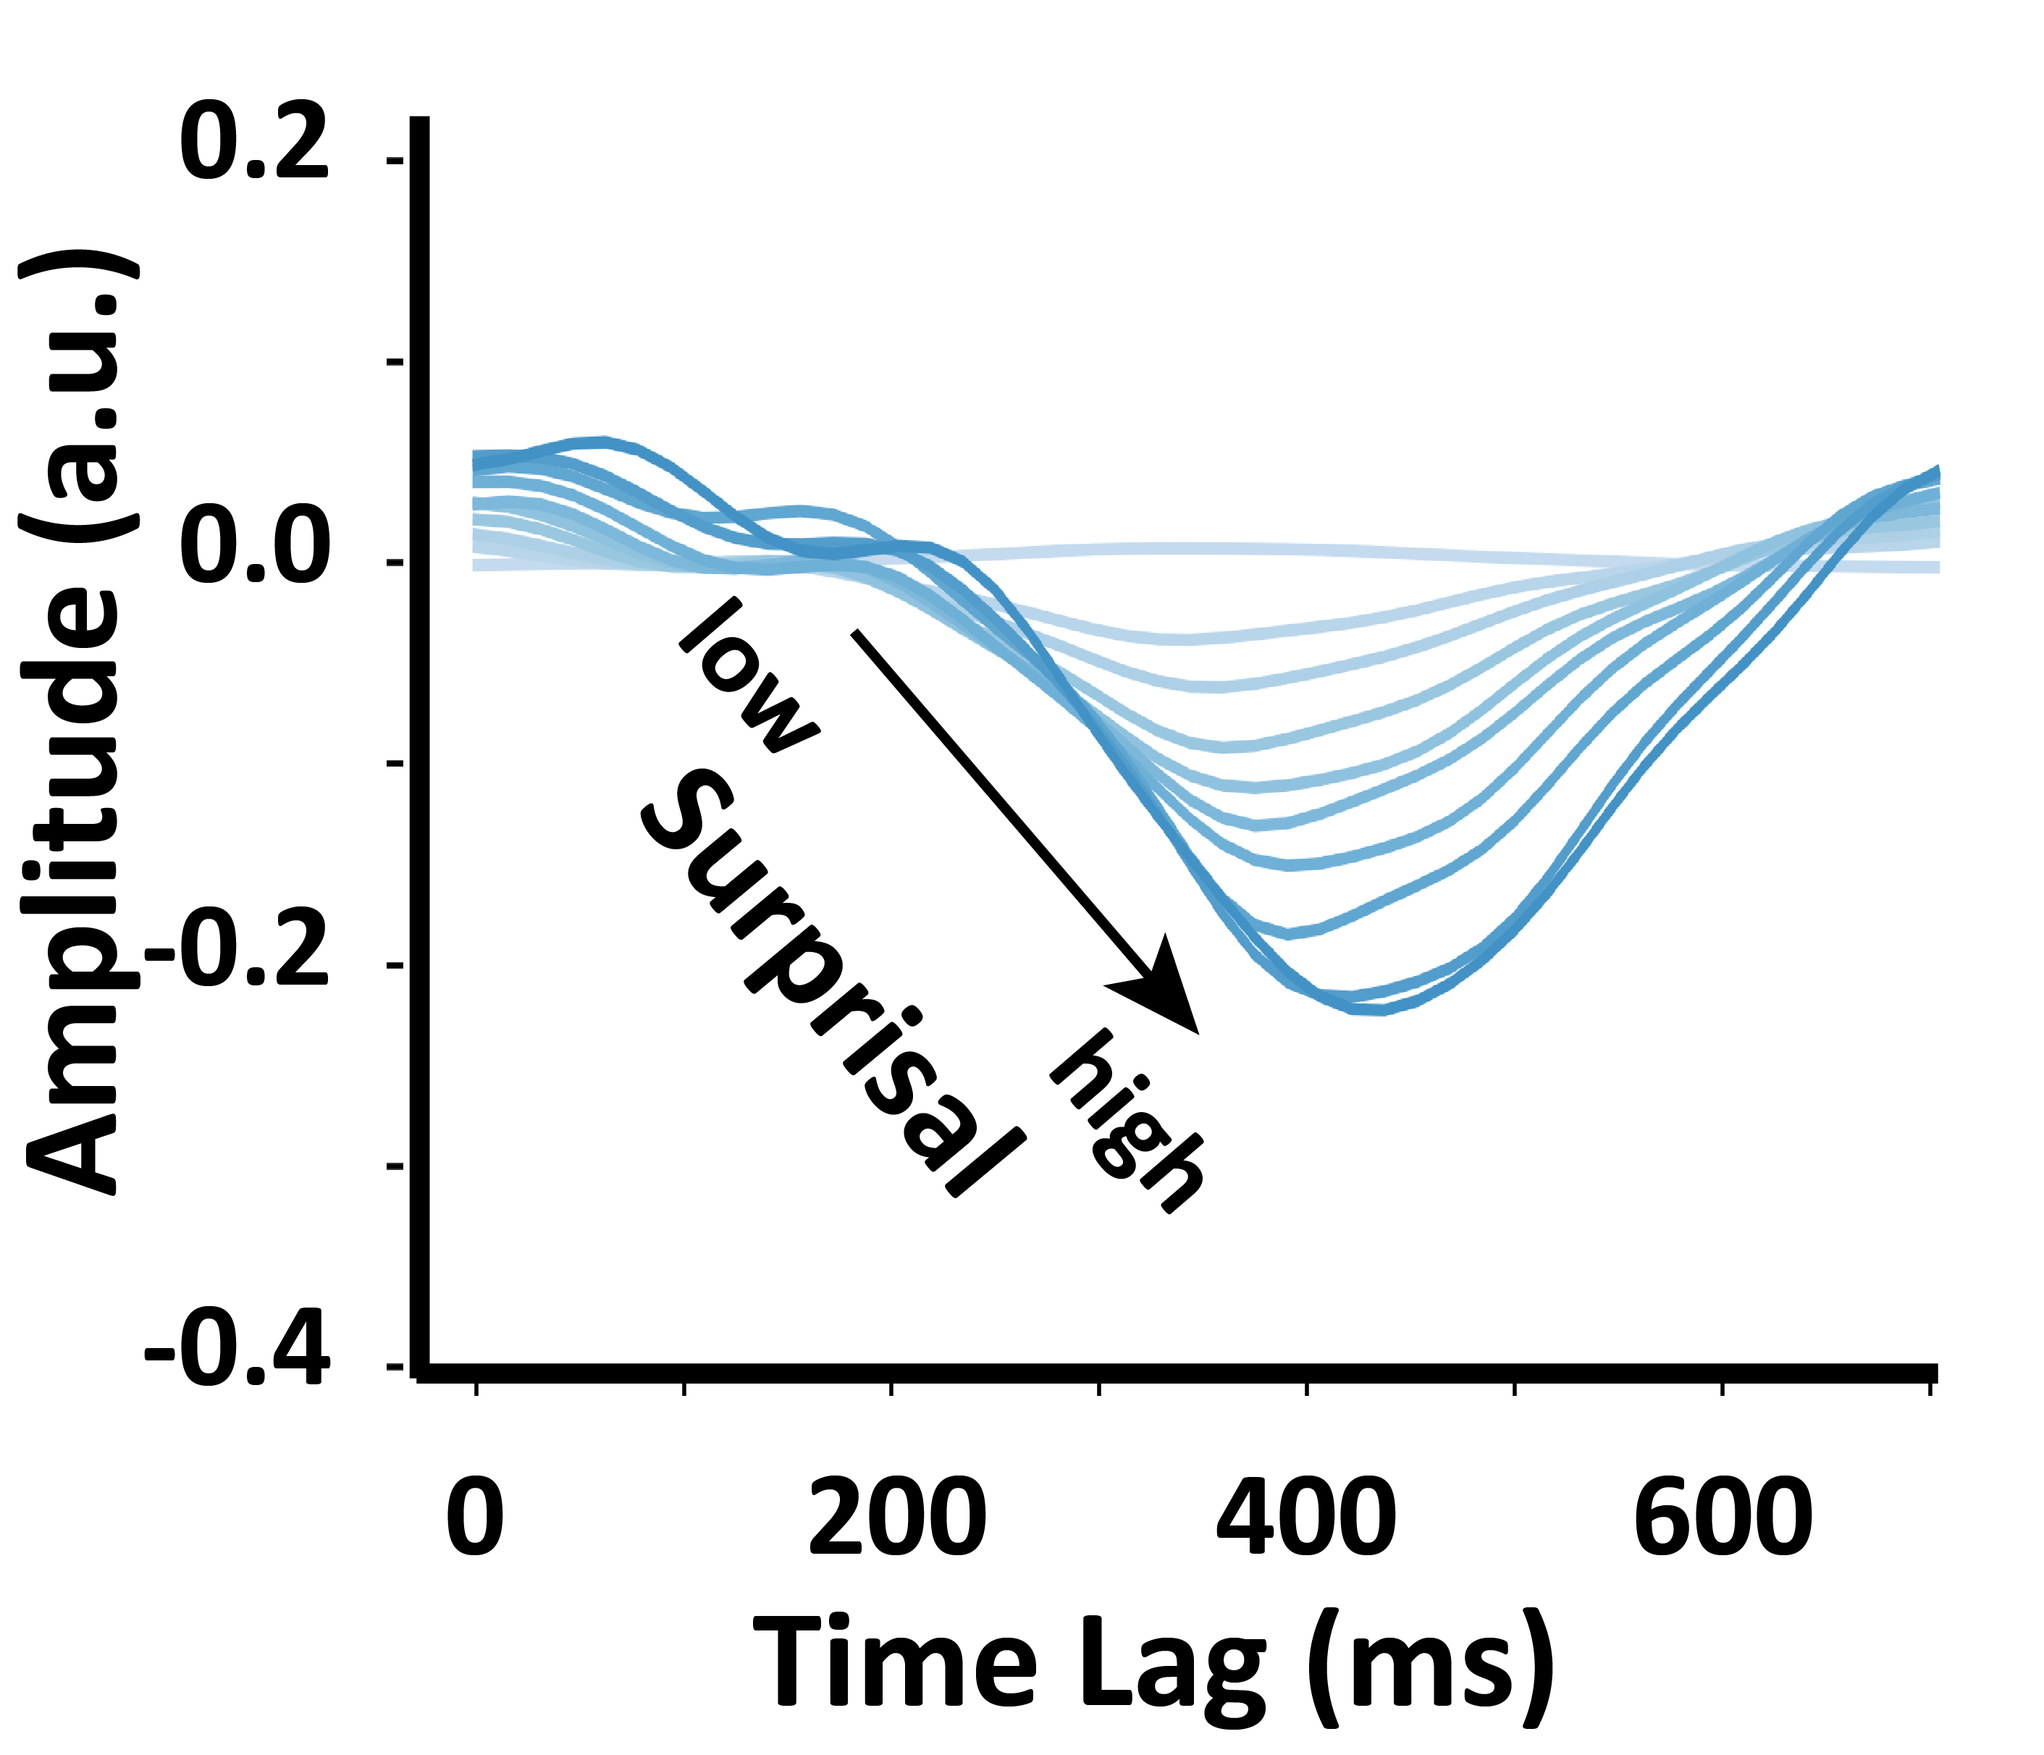
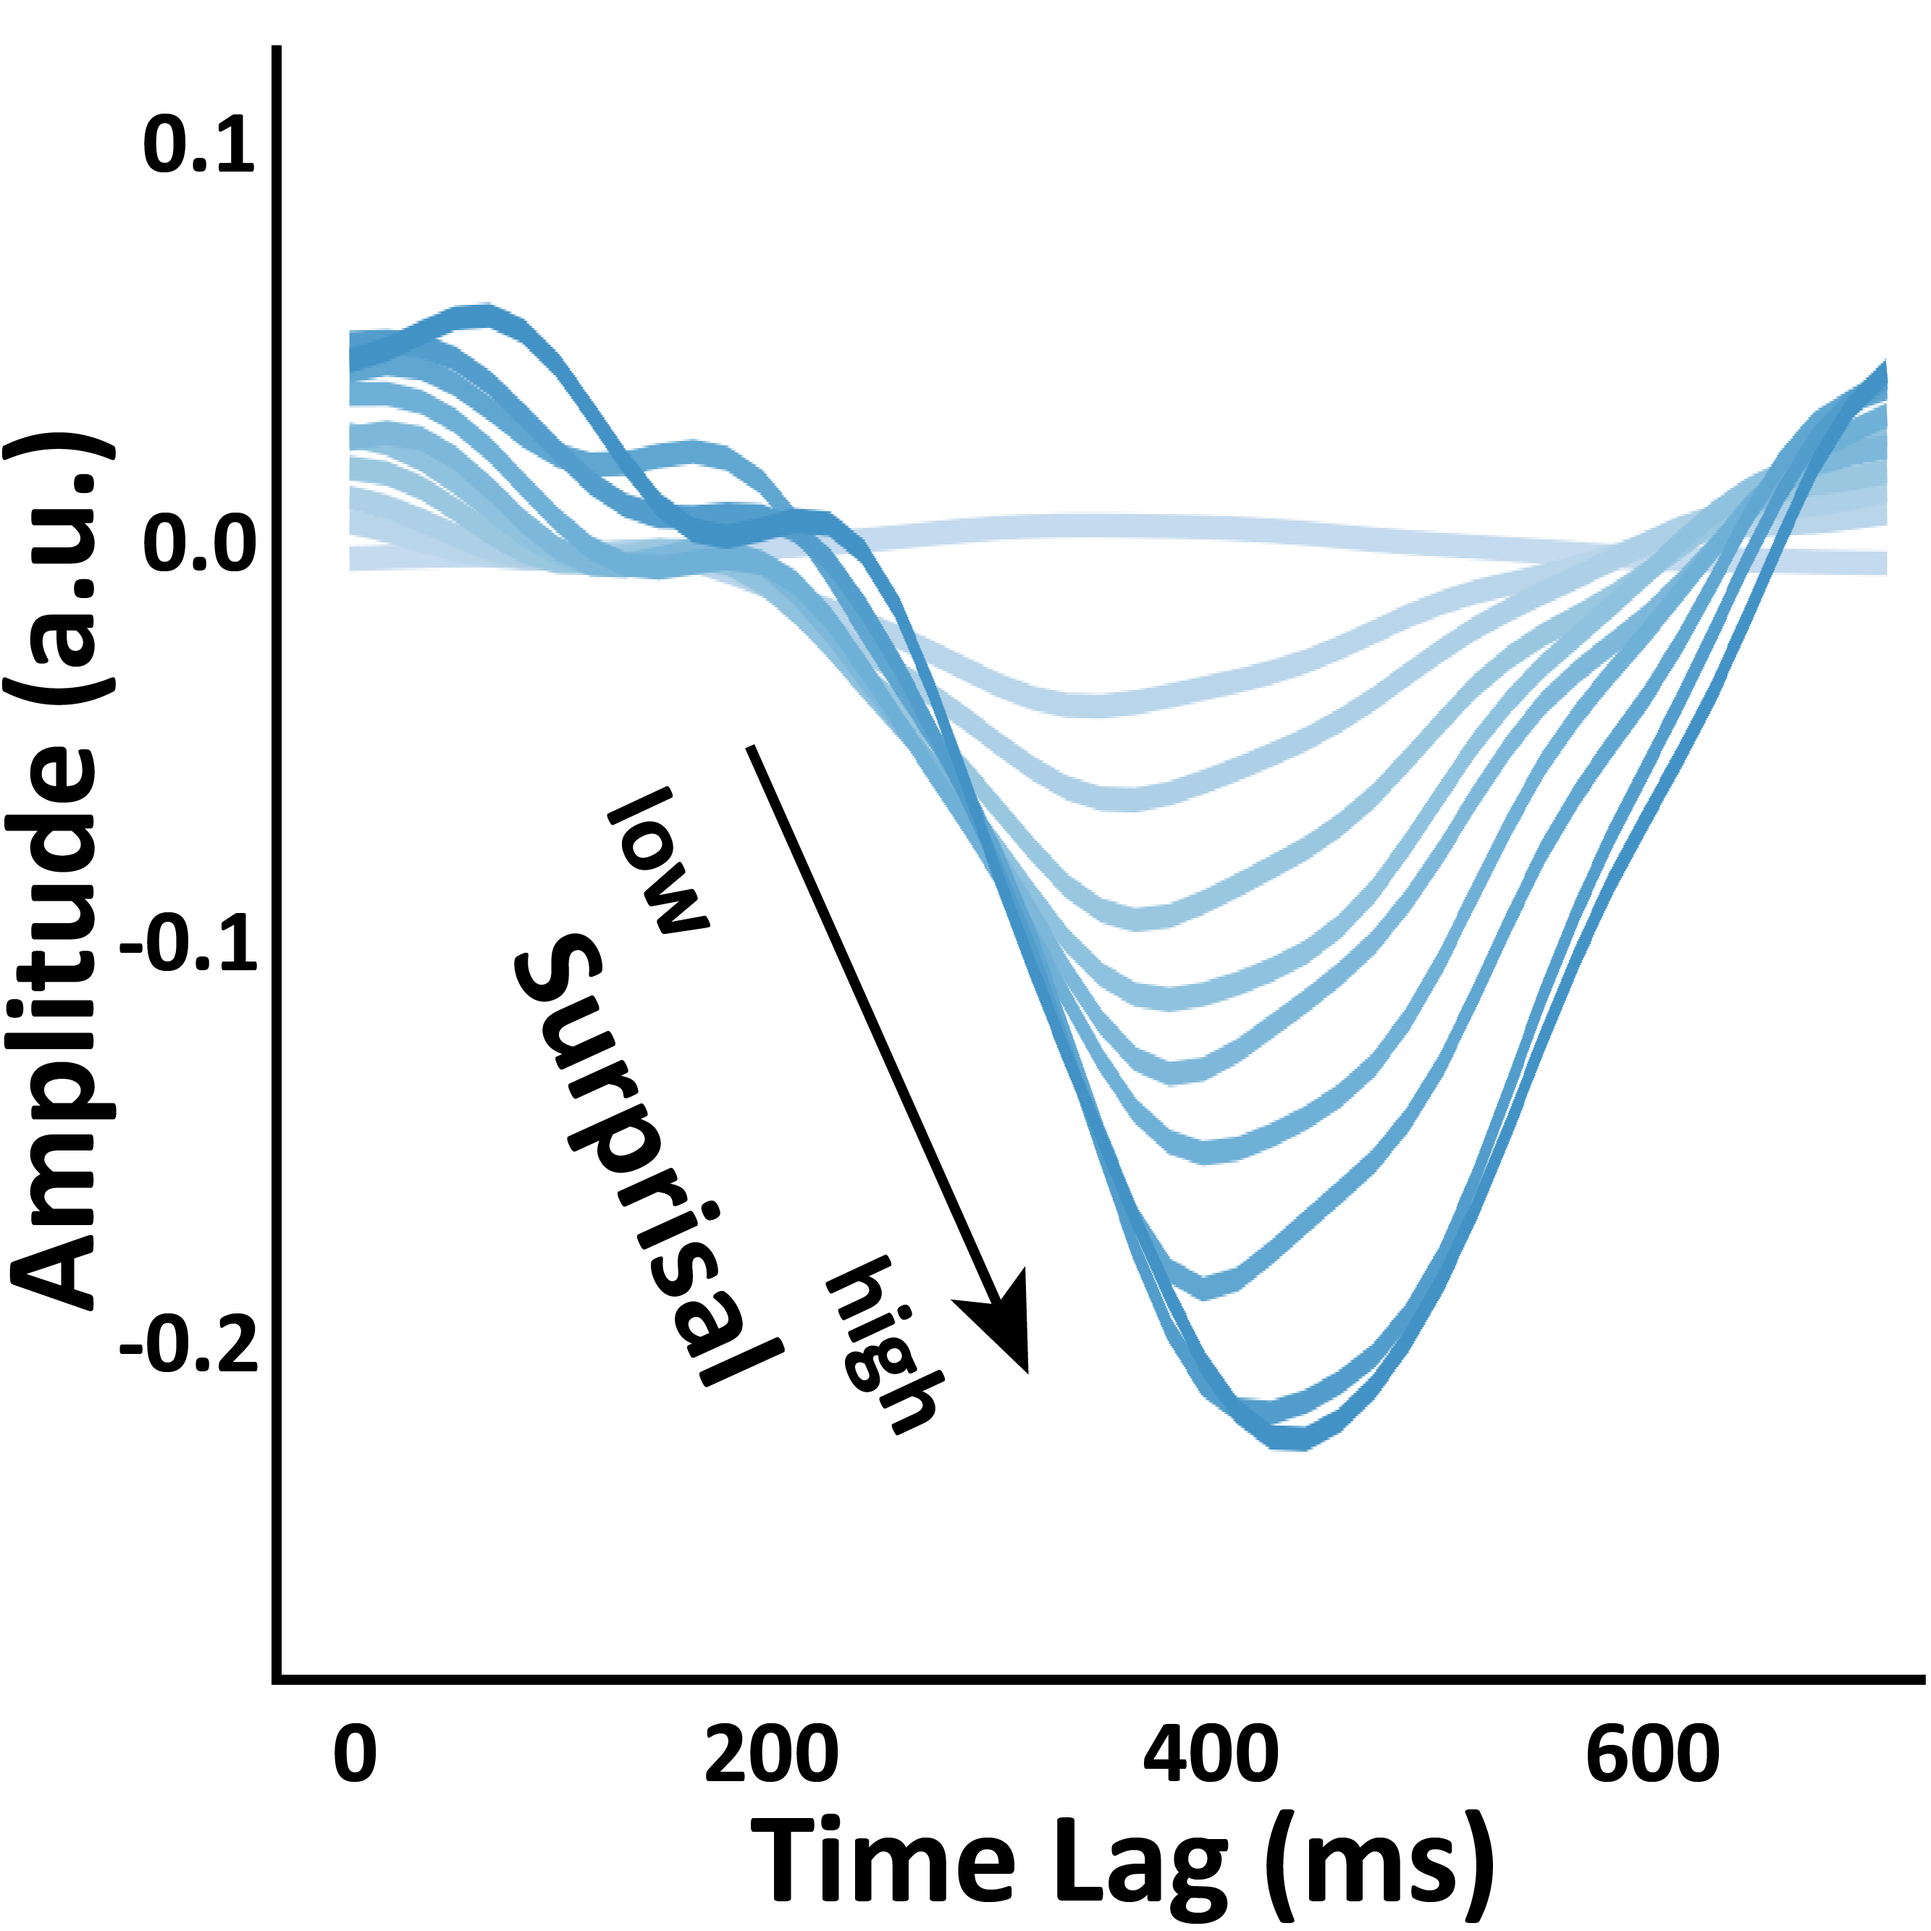
update thumbnail

Changed region(s): [[0.0, 0.0309, 0.9959, 0.8663], [0.1556, 0.8354, 0.9959, 1.0], [0.4046, 0.4332, 0.4357, 0.495]]

diff --git a/index.html b/index.html
@@ -44,7 +44,7 @@
                     <div class="entry" data-tags="neuroscience,ml">
 						<img src="res/mtrf.png" alt="Project Thumbnail" class="entry-thumbnail">
 						<div class="entry-text">
-							<h3 class="entry-title"> mTRFpy: A python package for temporal response function analysis.</h3>
+							<h3 class="entry-title"> mTRFpy: A python package for temporal response function analysis</h3>
 							<p class="entry-description">
 								Bialas, O., Dou, J., & Lalor, E. C. (2023). mtrfpy: A python package for temporal response function analysis. Journal of Open Source Software, 8(89), 5657.
 							</p>
@@ -57,7 +57,7 @@
                     <div class="entry" data-tags="dl, ml, neuroscience">
 						<img src="res/dynamicTRF.png" alt="Project Thumbnail" class="entry-thumbnail">
 						<div class="entry-text">
-							<h3 class="entry-title"> Dynamic modeling of eeg responses to natural speech reveals earlier processing of predictable words.</h3>
+							<h3 class="entry-title"> Dynamic modeling of eeg responses to natural speech reveals earlier processing of predictable words</h3>
 							<p class="entry-description"> Dou, J., Anderson, A. J., White, A. S., Norman-Haignere, S. V., & Lalor, E. C. (2024). Dynamic modeling of EEG responses to natural speech reveals earlier processing of predictable words. bioRxiv, 2024-08.</p>
 							<div class="entry-links">
 								<a href="https://doi.org/10.1101/2024.08.26.609779" target="_blank">paper</a>

diff --git a/css/style.css b/css/style.css
@@ -140,7 +140,7 @@ aside.sidebar {
 }
 
 .entry-thumbnail {
-    height: 100px; /* Fixed height for the thumbnail */
+    height: 150px; /* Fixed height for the thumbnail */
     width: auto; /* Width is set to auto to preserve aspect ratio */
     margin-right: 20px; /* Spacing between the thumbnail and the text */
 }
